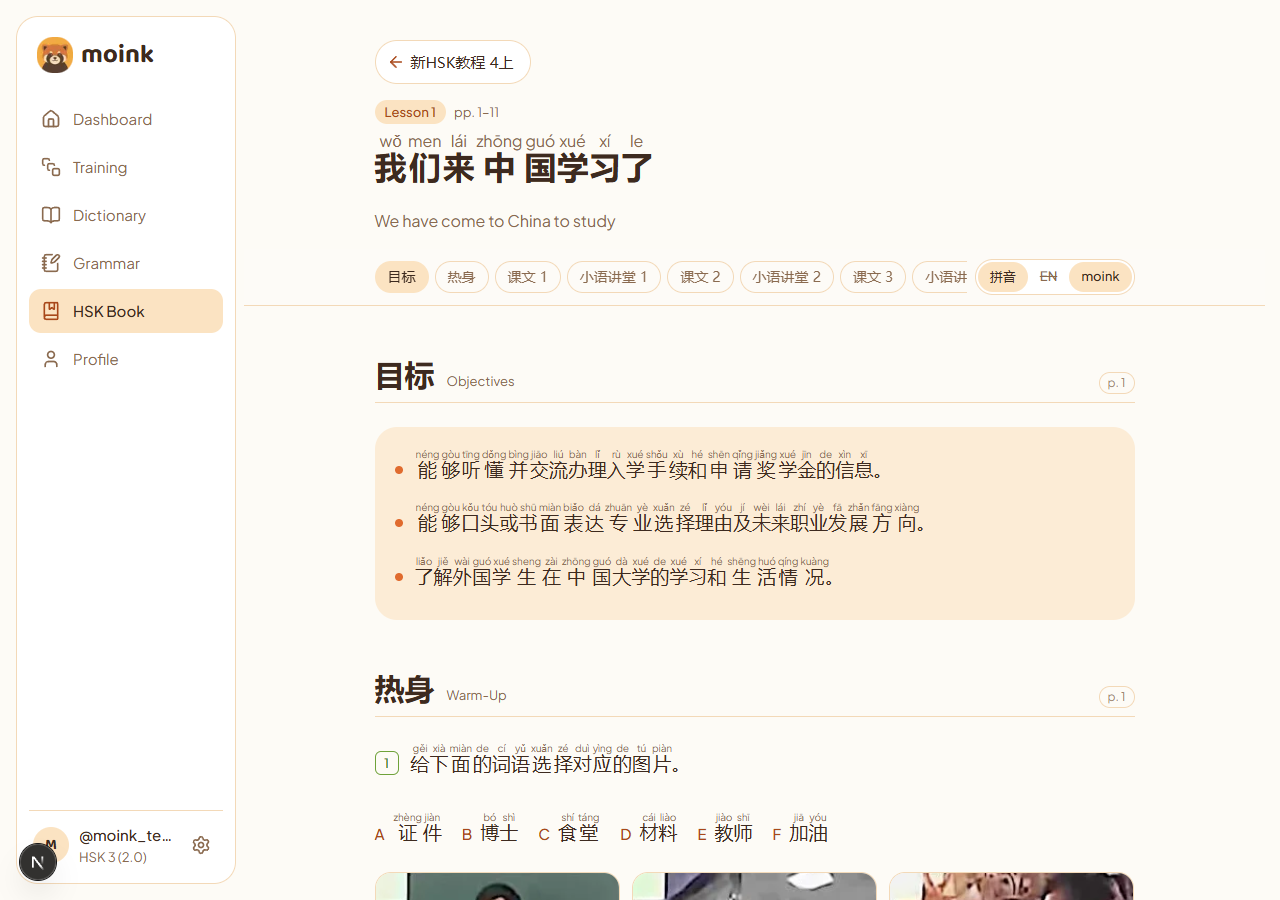
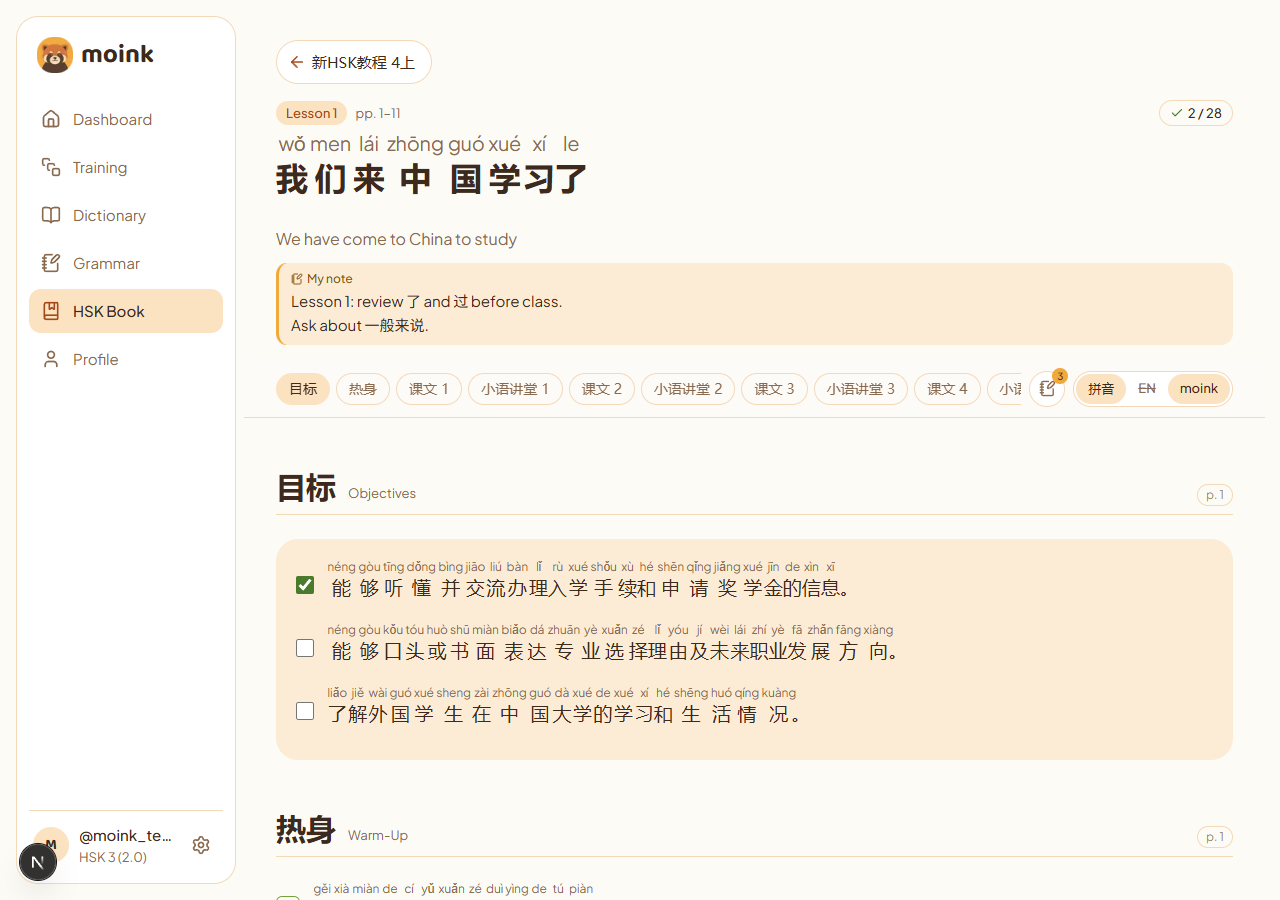
fix(book): match page width, larger pinyin, always-visible notes
- Reader and shelf use the AppShell container and shared --page-gutter, 760px limit removed

- Pinyin 0.62em (min 12px), more gap above hanzi, line height 2.8 with pinyin on and 1.8 off

- Block and lesson notes show inline as cards, click to edit

- Notes button moved to the block's top-right corner at all widths

- Retook reader screenshots in docs/screenshots/book

diff --git a/src/components/book/Notes.tsx b/src/components/book/Notes.tsx
@@ -1,14 +1,25 @@
 "use client";
 
 import { ArrowDownRight, NotebookPen, X } from "lucide-react";
-import { useEffect, useId, useLayoutEffect, useRef, useState, type ReactNode } from "react";
+import {
+  useCallback,
+  useEffect,
+  useId,
+  useLayoutEffect,
+  useRef,
+  useState,
+  type ReactNode,
+  type Ref,
+  type RefObject,
+} from "react";
 import { createPortal } from "react-dom";
 
 import { useBookStore, useNote, useNotes, type SaveStatus } from "./store";
 
 // Notes: one per block (block_key) and one for the whole lesson (block_key
 // null), plain text, autosaved. Each block gets a small notes button
-// (hover-only on desktop, always there on touch screens); the Lesson notes
+// (hover-only on desktop, always there on touch screens) and shows its
+// note under it; the lesson's note shows under the title. The Lesson notes
 // panel lists them all in book order.
 
 const FOCUS_RING = "focus-visible:outline-none focus-visible:ring-2 focus-visible:ring-rust";
@@ -100,34 +111,82 @@ export function NoteEditor({
   );
 }
 
-/**
- * A block with its notes button and, when open, the note editor under it.
- * The button sits in the right margin where there's room (xl), else on
- * the block's top-right corner.
- */
-export function BlockNotes({ blockKey, label, children }: { blockKey: string; label: string; children: ReactNode }) {
+/** A saved note, shown as is: a click (or Enter) opens its editor in its
+ *  place. */
+function NoteCard({
+  body,
+  label,
+  onOpen,
+  ref,
+}: {
+  body: string;
+  label: string;
+  onOpen: () => void;
+  ref?: Ref<HTMLButtonElement>;
+}) {
+  return (
+    <button
+      ref={ref}
+      type="button"
+      onClick={onOpen}
+      className={`flex w-full flex-col gap-0.5 rounded-md border-l-[3px] border-bamboo-gold bg-highlight/60 py-2 pl-3 pr-4 text-left transition-colors hover:bg-highlight ${FOCUS_RING}`}
+    >
+      <span className="inline-flex items-center gap-1 font-body text-[12px] font-medium leading-4 text-bamboo-gold-dark">
+        <NotebookPen size={12} aria-hidden="true" />
+        My note
+        <span className="sr-only"> ({label}, select to edit):</span>
+      </span>
+      <span className="whitespace-pre-wrap wrap-break-word font-body text-[15px] leading-[1.6] text-bark">{body}</span>
+    </button>
+  );
+}
+
+/** A note shown in place: its card while it has text and isn't being
+ *  edited, its editor while it is. When the editor closes, focus goes back
+ *  to the card, or to `focusWhenEmpty` if the note is now empty. */
+function useNoteInPlace(blockKey: string | null, focusWhenEmpty?: RefObject<HTMLElement | null>) {
   const note = useNote(blockKey);
   const [open, setOpen] = useState(false);
   const [focusEditor, setFocusEditor] = useState(false);
-  const button = useRef<HTMLButtonElement>(null);
+  const card = useRef<HTMLButtonElement>(null);
+  const returnFocus = useRef(false);
   const hasNote = Boolean(note?.body.trim());
+
+  useEffect(() => {
+    if (open || !returnFocus.current) return;
+    returnFocus.current = false;
+    (card.current ?? focusWhenEmpty?.current)?.focus();
+  }, [open, focusWhenEmpty]);
+
+  const openEditor = useCallback(() => {
+    setOpen(true);
+    setFocusEditor(true);
+  }, []);
+  const close = useCallback(() => {
+    returnFocus.current = true;
+    setOpen(false);
+    setFocusEditor(false);
+  }, []);
+
+  return { note, hasNote, open, focusEditor, card, openEditor, close };
+}
+
+/**
+ * A block with its notes button on its top-right corner and, under it, its
+ * note: the card while it has one, the editor while it's being written.
+ */
+export function BlockNotes({ blockKey, label, children }: { blockKey: string; label: string; children: ReactNode }) {
+  const button = useRef<HTMLButtonElement>(null);
+  const { note, hasNote, open, focusEditor, card, openEditor, close } = useNoteInPlace(blockKey, button);
   const editorId = useId();
 
   useEffect(() => {
     const onOpen = (e: Event) => {
-      if ((e as CustomEvent<string>).detail !== blockKey) return;
-      setOpen(true);
-      setFocusEditor(true);
+      if ((e as CustomEvent<string>).detail === blockKey) openEditor();
     };
     window.addEventListener(OPEN_EVENT, onOpen);
     return () => window.removeEventListener(OPEN_EVENT, onOpen);
-  }, [blockKey]);
-
-  const close = () => {
-    setOpen(false);
-    setFocusEditor(false);
-    button.current?.focus();
-  };
+  }, [blockKey, openEditor]);
 
   return (
     <div className="group/note relative">
@@ -136,16 +195,10 @@ export function BlockNotes({ blockKey, label, children }: { blockKey: string; la
         type="button"
         aria-expanded={open}
         aria-controls={open ? editorId : undefined}
-        aria-label={hasNote ? `Note on ${label} (has a note)` : `Add a note on ${label}`}
-        title={hasNote ? "Your note" : "Add a note"}
-        onClick={() => {
-          if (open) close();
-          else {
-            setOpen(true);
-            setFocusEditor(true);
-          }
-        }}
-        className={`absolute -right-2 -top-3 z-10 flex h-7 w-7 items-center justify-center rounded-full border-[1.5px] border-line bg-surface-raised text-bark-muted shadow-float transition-opacity hover:text-bark xl:-right-12 xl:top-0 xl:border-transparent xl:bg-transparent xl:shadow-none ${FOCUS_RING} ${
+        aria-label={hasNote ? `Edit the note on ${label}` : `Add a note on ${label}`}
+        title={hasNote ? "Edit your note" : "Add a note"}
+        onClick={() => (open ? close() : openEditor())}
+        className={`absolute -right-2 -top-3 z-10 flex h-7 w-7 items-center justify-center rounded-full border-[1.5px] border-line bg-surface-raised text-bark-muted shadow-float transition-opacity hover:text-bark ${FOCUS_RING} ${
           open || hasNote
             ? "opacity-100"
             : "[@media(hover:hover)]:opacity-0 [@media(hover:hover)]:group-hover/note:opacity-100 [@media(hover:hover)]:focus-visible:opacity-100"
@@ -155,10 +208,33 @@ export function BlockNotes({ blockKey, label, children }: { blockKey: string; la
         {hasNote && <span aria-hidden="true" className="absolute -right-0.5 -top-0.5 h-2.5 w-2.5 rounded-full border-2 border-background bg-bamboo-gold" />}
       </button>
       {children}
-      {open && (
+      {open ? (
         <div id={editorId} className="mt-3">
           <NoteEditor blockKey={blockKey} label={`Note on ${label}`} autoFocus={focusEditor} onClose={close} />
         </div>
+      ) : (
+        hasNote && (
+          <div className="mt-3">
+            <NoteCard ref={card} body={note!.body} label={`on ${label}`} onOpen={openEditor} />
+          </div>
+        )
+      )}
+    </div>
+  );
+}
+
+/** The note for the whole lesson, under the lesson's title: shown only
+ *  while it has text (it's written in the Lesson notes panel), edited in
+ *  place like a block's. */
+export function LessonNote() {
+  const { note, hasNote, open, focusEditor, card, openEditor, close } = useNoteInPlace(null);
+  if (!open && !hasNote) return null;
+  return (
+    <div className="mt-3">
+      {open ? (
+        <NoteEditor blockKey={null} label="Note for the whole lesson" autoFocus={focusEditor} onClose={close} />
+      ) : (
+        <NoteCard ref={card} body={note!.body} label="for the whole lesson" onOpen={openEditor} />
       )}
     </div>
   );

diff --git a/src/app/(app)/book/book.css b/src/app/(app)/book/book.css
@@ -8,7 +8,9 @@
 /* ---------------------------------------------------------------------------
    Type scale. Phones first (under 640px), then sm and up.
    --zh / --zh-lg: the two Chinese sizes; --lh: line height of any text with
-   ruby (lower when 拼音 is off, the only layout change of that switch).
+   ruby: with 拼音 on, tall enough that a line's pinyin keeps well clear of
+   the characters of the line above; with 拼音 off, the normal 1.8 (the
+   only layout change of that switch).
    Things that sit beside the first line of Chinese (speaker names, item
    numbers, markers) use .book-line / .book-line-lg: one line tall.
    --------------------------------------------------------------------------- */
@@ -16,7 +18,7 @@
 .book-reader {
   --zh: 18px;
   --zh-lg: 20px;
-  --lh: 2.4;
+  --lh: 2.8;
 }
 
 .book-reader[data-pinyin="off"] {
@@ -81,8 +83,8 @@
 }
 
 .book-reader[data-pinyin="off"] {
-  --py-shift: calc(var(--zh) * 0.22);
-  --py-shift-lg: calc(var(--zh-lg) * 0.22);
+  --py-shift: calc(var(--zh) * 0.17);
+  --py-shift-lg: calc(var(--zh-lg) * 0.17);
 }
 
 /* Headings. */
@@ -159,8 +161,8 @@
 
 .zh rt {
   font-family: var(--font-body), sans-serif;
-  /* Half the Chinese size (11px on 22px), never below 10px. */
-  font-size: max(10px, 0.5em);
+  /* 0.62 of the Chinese size (13.6px on 22px), never below 12px. */
+  font-size: max(12px, 0.62em);
   font-weight: 400;
   font-style: normal;
   line-height: 1;
@@ -168,16 +170,23 @@
   color: var(--color-bark-muted);
   user-select: none;
   /* Sides: just enough that neighbouring syllables never touch (the ruby
-     widens its character to fit). Bottom: room between the pinyin and its
-     character. Padding is part of the annotation box in Chrome, Safari and
-     Firefox alike, unlike a transform, which inline boxes ignore. */
-  padding: 0 0.1em 0.2em;
+     widens its character to fit). Bottom: the gap between the pinyin and
+     its character, about 0.3em of the Chinese (0.5 of the pinyin's 0.62em).
+     Padding is part of the annotation box in Chrome, Safari and Firefox
+     alike, unlike a transform, which inline boxes ignore. */
+  padding: 0 0.1em 0.5em;
 }
 
-/* Hidden but kept: only the line height changes (--lh), nothing else. */
+/* Hidden but kept, so no character moves sideways: only the line height
+   changes (--lh). Without its gap the hidden pinyin fits in the shorter
+   line; with it, Chrome would stretch the line to make room. */
 .book-reader[data-pinyin="off"] .zh rt,
 .book-reader[data-pinyin="off"] .book-vpy {
   visibility: hidden;
+}
+
+.book-reader[data-pinyin="off"] .zh rt {
+  padding-bottom: 0;
 }
 
 /* With pinyin off, a tapped (or Enter/Space) vocab row shows its own until

diff --git a/src/components/book/Reader.tsx b/src/components/book/Reader.tsx
@@ -10,7 +10,7 @@ import type { AutoItem } from "@/lib/book/answers";
 import type { BookNote, SavedAnswer } from "@/lib/book/load";
 import type { BookPrefs } from "@/lib/book/types";
 
-import { LessonNotes } from "./Notes";
+import { LessonNote, LessonNotes } from "./Notes";
 import { BookStoreProvider, useSaveFailed } from "./store";
 
 const FOCUS_RING = "focus-visible:outline-none focus-visible:ring-2 focus-visible:ring-rust";
@@ -195,7 +195,7 @@ function SaveFailed() {
   const failed = useSaveFailed();
   if (!failed) return null;
   return (
-    <p role="alert" className="mx-auto max-w-[760px] pb-2 font-body text-body-sm text-danger">
+    <p role="alert" className="pb-2 font-body text-body-sm text-danger">
       Some of your answers or notes didn&apos;t save. Check your connection; they&apos;ll save with your next change.
     </p>
   );
@@ -275,11 +275,14 @@ export function Reader({
         data-en={prefs.english ? "on" : "off"}
         data-extras={prefs.extras ? "on" : "off"}
       >
-        <div className="mx-auto max-w-[760px]">{header}</div>
+        {header}
+        <LessonNote />
 
-        {/* Full width of the page area, so content scrolls under it cleanly. */}
-        <div className="sticky top-0 z-20 -mx-4 mt-4 border-b-[1.5px] border-line bg-background/95 px-4 backdrop-blur sm:-mx-6 sm:px-6 lg:-mx-8 lg:px-8">
-          <div className="mx-auto flex max-w-[760px] items-center gap-2 py-2">
+        {/* Its background bleeds into the page gutters (AppShell's
+            --page-gutter), so content scrolls under it cleanly; its content
+            keeps the page's edges. */}
+        <div className="sticky top-0 z-20 -mx-(--page-gutter) mt-4 border-b-[1.5px] border-line bg-background/95 px-(--page-gutter) backdrop-blur">
+          <div className="flex items-center gap-2 py-2">
             <Chips sections={sections} active={active} />
             <LessonNotes blocks={blocks} />
             <div role="group" aria-label="Show" className="flex h-9 shrink-0 items-center rounded-pill border-[1.5px] border-line bg-surface-raised p-0.5">
@@ -301,14 +304,14 @@ export function Reader({
             </div>
           </div>
           {error && (
-            <p role="alert" className="mx-auto max-w-[760px] pb-2 font-body text-body-sm text-danger">
+            <p role="alert" className="pb-2 font-body text-body-sm text-danger">
               {error}
             </p>
           )}
           <SaveFailed />
         </div>
 
-        <div className="mx-auto max-w-[760px]">
+        <div>
           {children}
 
           <div className="mt-12 flex flex-col items-center gap-4 border-t-[1.5px] border-line pt-8">

diff --git a/src/app/(app)/book/[book]/[lesson]/loading.tsx b/src/app/(app)/book/[book]/[lesson]/loading.tsx
@@ -15,7 +15,7 @@ function Lines({ widths }: { widths: string[] }) {
 export default function BookLessonLoading() {
   return (
     <SkeletonPage>
-      <div className="mx-auto flex max-w-[760px] flex-col gap-1">
+      <div className="flex flex-col gap-1">
         <Skeleton variant="rounded-full" className="mb-3 h-11 w-36" />
         <div className="flex items-center gap-2">
           <Skeleton variant="rounded-full" className="h-6 w-20" />
@@ -26,8 +26,8 @@ export default function BookLessonLoading() {
       </div>
 
       {/* The sticky bar: chips and the three switches. */}
-      <div className="-mx-4 mt-4 border-b-[1.5px] border-line px-4 sm:-mx-6 sm:px-6 lg:-mx-8 lg:px-8">
-        <div className="mx-auto flex max-w-[760px] items-center gap-2 py-2">
+      <div className="-mx-(--page-gutter) mt-4 border-b-[1.5px] border-line px-(--page-gutter)">
+        <div className="flex items-center gap-2 py-2">
           <div className="flex min-w-0 flex-1 gap-1.5 overflow-hidden py-1">
             {[0, 1, 2, 3, 4].map((i) => (
               <Skeleton key={i} variant="rounded-full" className="h-8 w-16 shrink-0" />
@@ -37,7 +37,7 @@ export default function BookLessonLoading() {
         </div>
       </div>
 
-      <div className="mx-auto flex max-w-[760px] flex-col gap-6 pt-12">
+      <div className="flex flex-col gap-6 pt-12">
         <div className="flex items-end gap-3 border-b-[1.5px] border-line pb-2">
           <SkeletonLine line="h-9" className="h-6 w-24" />
           <Skeleton variant="rounded-full" className="ml-auto h-6 w-12" />

diff --git a/src/components/app/AppShell.tsx b/src/components/app/AppShell.tsx
@@ -294,8 +294,10 @@ export function AppShell({
           <MobileTopBar />
           {/* Desktop: sidebar 220px + its 16px gaps on both sides + 24px.
               Mobile: room for the tab bar (about 66px tall, 12px off the
-              bottom edge) plus breathing space. */}
-          <main className="px-4 pb-[calc(7rem+env(safe-area-inset-bottom))] pt-4 sm:px-6 lg:pb-10 lg:pl-69 lg:pr-8 lg:pt-10">
+              bottom edge) plus breathing space. --page-gutter is the side
+              padding (the right one from lg), for anything that bleeds to
+              the page area's edges (the HSK Book's sticky bar). */}
+          <main className="px-(--page-gutter) pb-[calc(7rem+env(safe-area-inset-bottom))] pt-4 [--page-gutter:--spacing(4)] sm:[--page-gutter:--spacing(6)] lg:pb-10 lg:pl-69 lg:pr-(--page-gutter) lg:pt-10 lg:[--page-gutter:--spacing(8)]">
             <div className="mx-auto w-full max-w-275">{children}</div>
           </main>
           <TabBar pathname={pathname} nav={nav} />

diff --git a/src/app/(app)/book/page.tsx b/src/app/(app)/book/page.tsx
@@ -121,7 +121,7 @@ export default async function BookShelfPage({ searchParams }: PageProps<"/book">
   const open = books.find((b) => b.slug === wanted) ?? books[0];
 
   return (
-    <div className="mx-auto flex max-w-[760px] flex-col gap-6">
+    <div className="flex flex-col gap-6">
       <PageHeader title="HSK Book">The textbook, lesson by lesson, in the book&apos;s own order.</PageHeader>
       {books.length === 0 ? (
         <p className="font-body text-body text-bark-muted">No books yet.</p>

diff --git a/src/app/(app)/book/[book]/[lesson]/page.tsx b/src/app/(app)/book/[book]/[lesson]/page.tsx
@@ -111,7 +111,7 @@ export default async function BookLessonPage({ params }: PageProps<"/book/[book]
         </span>
       </p>
       <h1>
-        <ZhText text={lesson.title} className="text-[28px] font-bold leading-[2.4] text-bark lg:text-[32px]" />
+        <ZhText text={lesson.title} className="text-[28px] font-bold leading-(--lh) text-bark lg:text-[32px]" />
       </h1>
       <p className="font-body text-h3 text-bark-muted">{lesson.title_en}</p>
     </header>

diff --git a/src/app/(app)/book/loading.tsx b/src/app/(app)/book/loading.tsx
@@ -3,7 +3,7 @@ import { Skeleton, SkeletonLine, SkeletonPage, SkeletonPageTitle } from "@/compo
 
 export default function BookShelfLoading() {
   return (
-    <SkeletonPage className="mx-auto flex max-w-[760px] flex-col gap-6">
+    <SkeletonPage className="flex flex-col gap-6">
       <header>
         <SkeletonPageTitle className="w-36" />
         <SkeletonLine line="mt-1 h-6" className="h-4 w-72 max-w-full" />
